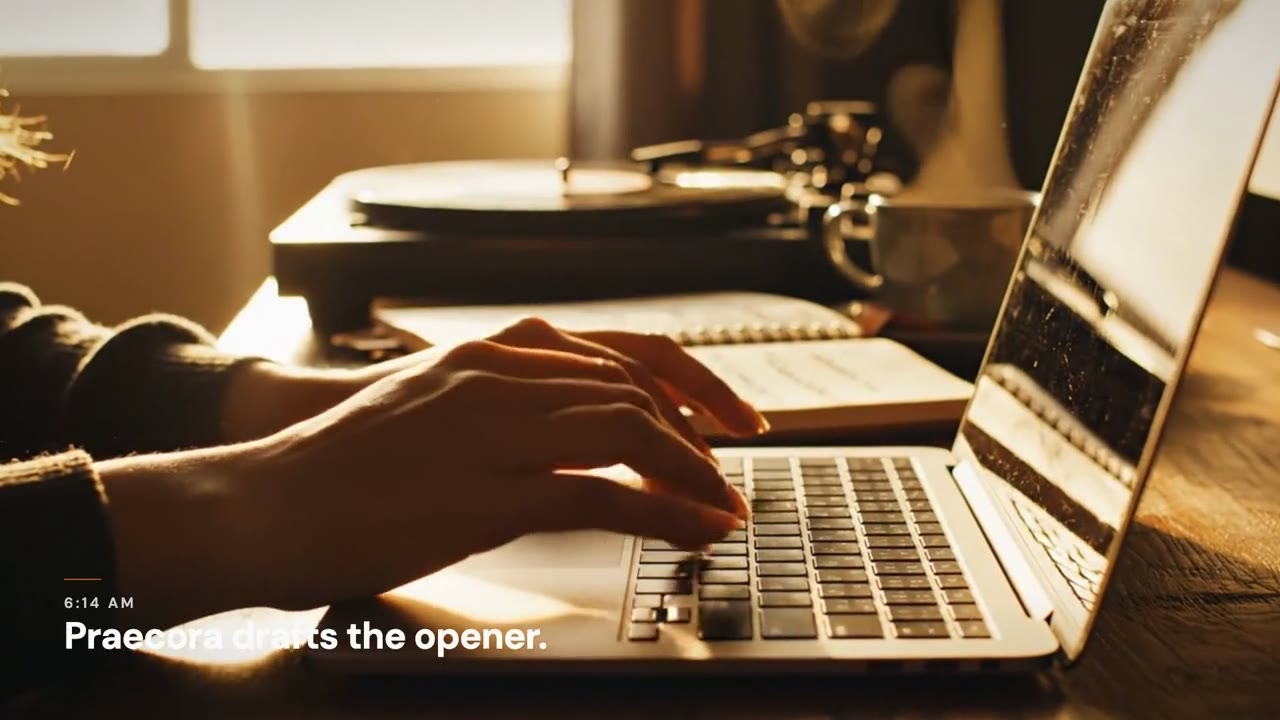
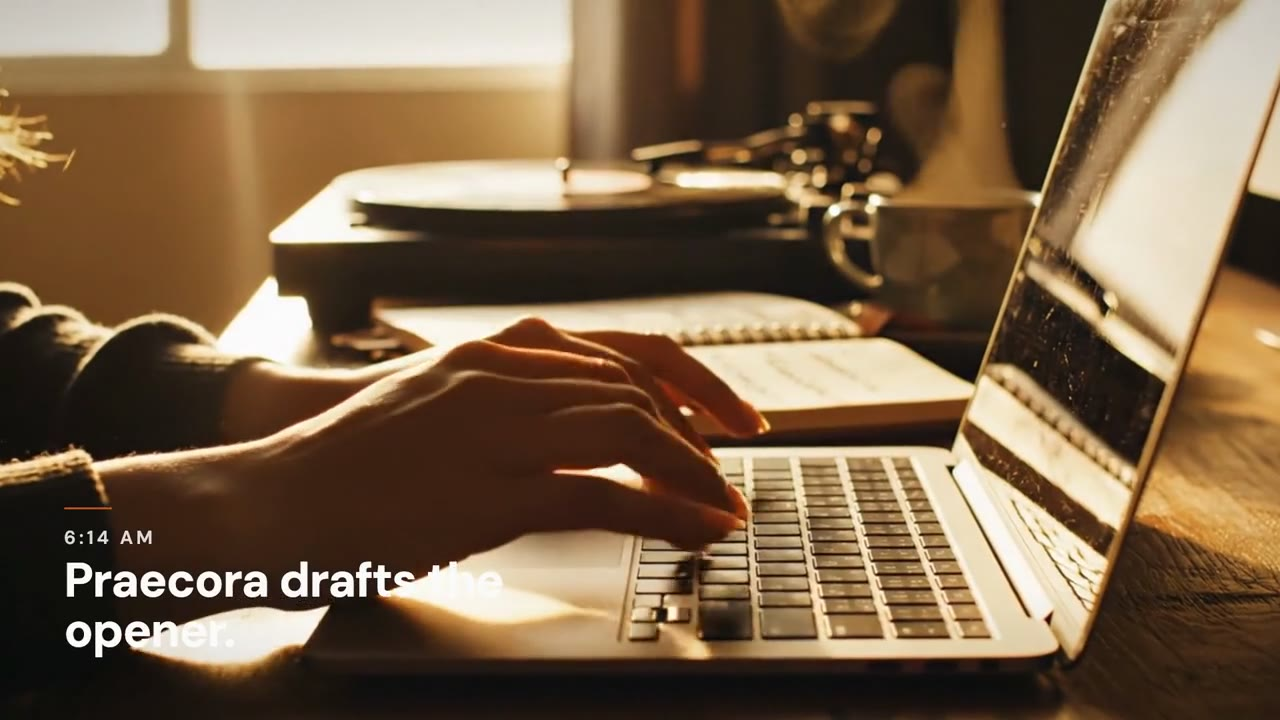
chore(video): bump caption sizes ~28% for hero playback legibility
When the rendered 1080p video plays inside the right column of the
split hero layout, captions render at a much smaller display size than
the source 1080p resolution. Time stamps in particular ("6:14 AM",
"Friday", etc.) were too small to read comfortably at hero playback
scale.

CHANGES (remotion/AnatomyOfDeal/Scene.tsx)
- Time label: 22pt → 28pt (+27%)
- Action text: 56pt → 72pt (+29%)
- Emphasis line ($5K commission etc): 56pt → 72pt (+29%)
- Rust hairline above caption: 56×2 → 72×3 (proportional scale-up)
- Caption vertical spacing: +marginBottom, +gap

CHANGES (remotion/AnatomyOfDeal/Outro.tsx)
- Tagline: 46pt → 58pt (+26%) for consistency with scene captions

RE-RENDERED
- public/videos/anatomy-of-a-deal.mp4 — fresh Remotion render,
  re-compressed via ffmpeg (1.9 MB at 1280×720, h264 CRF24)
- public/videos/anatomy-of-a-deal-poster.jpg — re-extracted at 1.5s
- Teaser unaffected (sourced from raw Scene 1, no captions)

Changed region(s): [[0.0312, 0.7028, 0.3438, 0.9167], [0.2188, 0.8556, 0.4375, 0.9167], [0.375, 0.7944, 0.4062, 0.825]]

diff --git a/remotion/AnatomyOfDeal/Scene.tsx b/remotion/AnatomyOfDeal/Scene.tsx
@@ -96,40 +96,41 @@ export const Scene: React.FC<SceneProps> = ({
             maxWidth: 920,
           }}
         >
-          {/* Rust hairline above caption */}
+          {/* Rust hairline above caption — bumped for proportional scaling */}
           <div
             style={{
-              width: 56,
-              height: 2,
+              width: 72,
+              height: 3,
               backgroundColor: '#b8531d',
-              marginBottom: 20,
-              borderRadius: 1,
+              marginBottom: 24,
+              borderRadius: 1.5,
             }}
           />
-          {/* Time + action stack */}
+          {/* Time + action stack — all sizes bumped ~28% for legibility
+              at smaller hero playback frames */}
           <div
             style={{
               display: 'flex',
               flexDirection: 'column',
-              gap: 6,
+              gap: 8,
               fontFamily: '"DM Sans", sans-serif',
             }}
           >
             <div
               style={{
-                fontSize: 22,
+                fontSize: 28,
                 fontWeight: 600,
                 letterSpacing: '0.18em',
                 textTransform: 'uppercase',
                 color: '#fafaf9',
-                opacity: 0.8,
+                opacity: 0.85,
               }}
             >
               {captionTime}
             </div>
             <div
               style={{
-                fontSize: 56,
+                fontSize: 72,
                 fontWeight: 700,
                 lineHeight: 1.05,
                 color: '#fafaf9',
@@ -144,10 +145,10 @@ export const Scene: React.FC<SceneProps> = ({
                   fontFamily: '"Cormorant Garamond", Georgia, serif',
                   fontStyle: 'italic',
                   fontWeight: 600,
-                  fontSize: 56,
+                  fontSize: 72,
                   lineHeight: 1.05,
                   color: '#e8ff47',
-                  marginTop: 6,
+                  marginTop: 8,
                 }}
               >
                 {captionEmphasis}

diff --git a/remotion/AnatomyOfDeal/Outro.tsx b/remotion/AnatomyOfDeal/Outro.tsx
@@ -113,7 +113,7 @@ export const Outro: React.FC = () => {
           }}
         />
 
-        {/* Tagline */}
+        {/* Tagline — bumped proportionally with scene captions */}
         <div
           style={{
             opacity: taglineOpacity,
@@ -121,7 +121,7 @@ export const Outro: React.FC = () => {
             fontFamily: '"Cormorant Garamond", Georgia, serif',
             fontStyle: 'italic',
             fontWeight: 500,
-            fontSize: 46,
+            fontSize: 58,
             color: '#0f0d08',
             letterSpacing: '-0.01em',
           }}